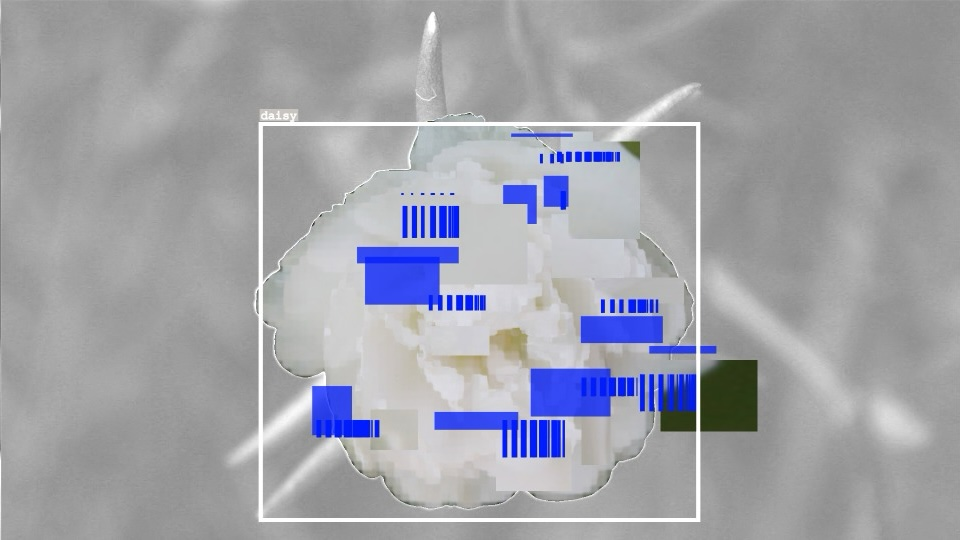
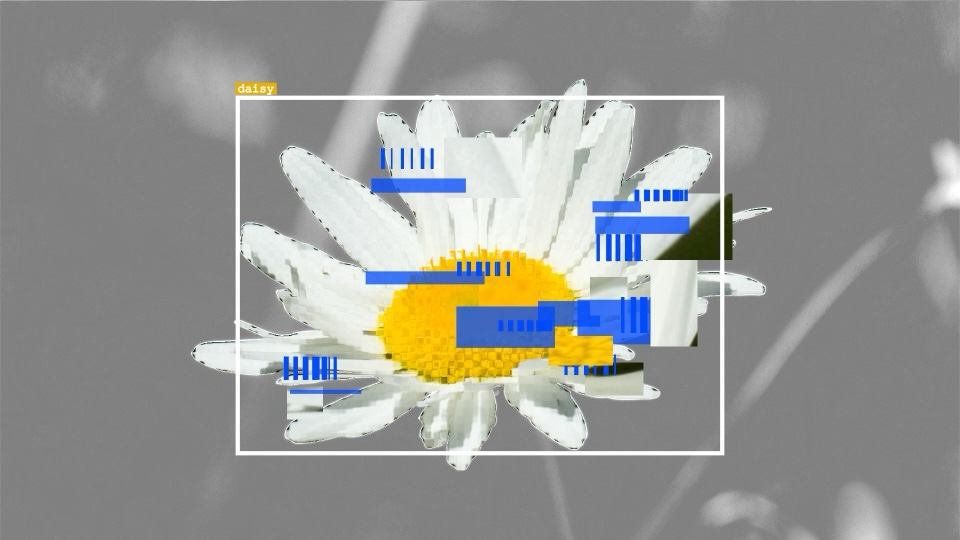
flower label based on input
tried to use mask data colour to determine the label text, but couldn't figure it out so text is based on input

diff --git a/sketch.js b/sketch.js
@@ -6,11 +6,14 @@ let maskCenter = null;
 let maskCenterSize = null; 
 let barcode = [];
 
+let isDaisy = false;
+let isRose = false; 
+
 let loopCounter = 0;
 
 // change these three lines as appropiate
-let sourceFile = "input_1.jpg";
-let maskFile = "mask_1.png";
+let sourceFile = "input_7.jpg";
+let maskFile = "mask_7.png";
 let outputFile = "output_5.png";
 
 function preload() {
@@ -31,6 +34,32 @@ function setup () {
 
   maskCenterSearcher(20);
   maskSizeFinder(20);
+
+  switch(sourceFile){
+    case "input_1.jpg":
+    case "input_2.jpg":
+    case "input_3.jpg":
+    case "input_4.jpg":
+    case "input_5.jpg":
+    case "input_new1.jpg":
+    case "input_new2.jpg":
+    case "input_new3.jpg":
+      isRose = true;
+      isDaisy = false;
+      break;
+
+    case "input_6.jpg":
+    case "input_7.jpg":
+    case "input_8.jpg":
+    case "input_9.jpg":
+    case "input_10.jpg":
+    case "input_new4.jpg":
+    case "input_new5.jpg":
+    case "input_new6.jpg":
+      isRose = false;
+      isDaisy = true;
+      break;
+  }
 }
 
 let X_STOP = 1920;
@@ -159,32 +188,13 @@ function draw () {
       let pixData = sourceImg.get(x1, y1);
       let maskData = maskImg.get(x1, y1);
 
-      // copy image regions 
-      let sourceWidth = random(25, 50); // copy source width
-      let sourceHeight = random(25, 50); // copy source height
-      let destWidth = random(50, 200); // copy destination width 
-      let destHeight = random(50, 200); // copy destination height
-      noStroke();
-
-
       if(maskData[1] > 128) {
-        imageMode(CORNERS);
-
-        fill(pixData); // image pixels
-        copy(sourceImg, x1, y1, sourceWidth, sourceHeight, x2, y2, destWidth, destHeight); // copy source region to new destination with new size 
-
-        colorMode(HSB, 360, 100, 100, 100);
-        let hueValue = hue(maskCenterPixel); // hue of mask centre pixel
-        let mapHue = map(hueValue, 0, 360, 0, 120); // 
-        let oppositeHue = 300 - mapHue; // find complementary hue
-        let oppositeOpaque = color(oppositeHue, 100, 100, 100); // complementary colour
-        let oppositeTransparent = color(oppositeHue, 100, 100, 75); // complementary colour
-
-      //   // random solid colour rectangle
-        fill(oppositeTransparent);
-        rectTint(x1, y1);
-        fill(oppositeOpaque);
-        barcodes(x1, y1);
+        // random image regions copies
+        maskGlitch(x1, y1, x2, y2, pixData);
+        // opposite tint rectangle at random x and y coordinates
+        rectTint(x1, y1, maskCenterPixel);
+        // opposite colour barcodes at random x and y coordinates
+        barcodes(x1, y1, maskCenterPixel);
       }
     }
     renderCounter = renderCounter + 1;
@@ -192,30 +202,43 @@ function draw () {
  
   // mask scanner focus rectangle
   if (maskCenter !== null) {
-    let flowerType = 'daisy'
-    // focus rectangle
+
+    // identify flower type
+    let flowerType = null;
+    if (isRose == true){
+      flowerType = "rose";
+    }
+    else {
+      flowerType = "daisy";
+    }
+
+    let boxLeft = maskCenter[0] - maskWidth/2; // flower bounding box left x coordinate
+    let boxTop = maskCenter[1] - maskHeight/2; // flower bounding box top y coordinate
+    let labelLeft = boxLeft - 4; // flower type label background left x coordinate
+    let labelTop = boxTop - 30; // flower type label background top y coordinate
+
+    // bounding box
     colorMode(RGB);
-    rectMode(CENTER);
-    strokeWeight(8); // scan line weight
-    stroke(255, 255, 255); // white scan lines
+    rectMode(CENTER); // bounding box from mask centre
+    strokeWeight(8); // bounding box line weight
+    stroke(255, 255, 255); // white bounding box
     noFill();
-    rect(maskCenter[0], maskCenter[1], maskWidth, maskHeight); // scan rectangle
+    rect(maskCenter[0], maskCenter[1], maskWidth, maskHeight); // bounding box rectangle
 
-    // label background
-    let labelWidth = textWidth(flowerType) + 5; // label backing width 
-    rectMode(CORNER);
+    // flower type label background
+    let labelWidth = textWidth(flowerType) + 10; // label backing width 
+    rectMode(CORNER); // label from top left corner
     noStroke();
-    fill(maskCenterPixel); // centre mask pixel colour
-    rect(maskCenter[0] - maskWidth/2 - 2, maskCenter[1] - maskHeight/2 - 30, labelWidth, 24); // label backing
+    fill(maskCenterPixel); // mask's centre pixel's colour
+    rect(labelLeft, labelTop, labelWidth, 24); // label backing
 
-    // label text
-    rectMode(CENTER);
+    // flower type label text
     noFill();
     stroke(255, 255, 255); // white text
-    strokeWeight(2); // text weight
-    textSize(24); // text size
+    strokeWeight(1.75); // font weight
+    textSize(24); // font size
     textFont('Courier New'); // courier new typeface
-    text(flowerType, maskCenter[0] - maskWidth/2, maskCenter[1] - maskHeight/2 - 10); // text and text location 
+    text(flowerType, boxLeft, boxTop - 12); // flower type label located at the top left of the flower bounding boz
   }
   renderCounter = renderCounter + 1;
 
@@ -238,21 +261,54 @@ function keyTyped() {
   }
 }
 
-function rectTint(x1, y1){
+// random image regions copies
+function maskGlitch(x1, y1, x2, y2, pixData){
+  // copy image regions 
+  let sourceWidth = random(25, 50); // copy source width
+  let sourceHeight = random(25, 50); // copy source height
+  let destWidth = random(50, 200); // copy destination width 
+  let destHeight = random(50, 200); // copy destination height
+
+  imageMode(CORNERS);
+  noStroke();
+  fill(pixData);
+  copy(sourceImg, x1, y1, sourceWidth, sourceHeight, x2, y2, destWidth, destHeight); // copy source region to new destination with new size 
+}
+
+// opposite tint rectangle at random x and y coordinates
+function rectTint(x1, y1, maskCenterPixel){
   let tintX = random (-50, 50);
   let tintY = random (-100, 100);
+  colorMode(HSB, 360, 100, 100, 100);
+  let hueValue = hue(maskCenterPixel); // mask's centre pixel's hue
+  let mapHue = map(hueValue, 0, 360, 0, 120); // map mask's centre pixel's hue
+  let oppositeHue = 300 - mapHue; // find opposite hue
+  let oppositeTint = color(oppositeHue, 100, 100, 75); // opposite colour tint
+
+  rectMode(CENTER);
+  noStroke();
+  fill(oppositeTint);
+
   push();
   translate(tintX, tintY);
-  rectMode(CENTER);
   let tintWidth = random(50, 250);
   let tintHeight = random(5, 100);
   rect(x1, y1, tintWidth, tintHeight);
   pop();
 }
 
-function barcodes(x1, y1){
+// opposite colour barcodes at random x and y coordinates
+function barcodes(x1, y1, maskCenterPixel){
   let barcodeX = random (-60, 30);
   let barcodeY = random (-20, 10);
+  colorMode(HSB, 360, 100, 100, 100);
+  let hueValue = hue(maskCenterPixel); // mask's centre pixel's hue
+  let mapHue = map(hueValue, 0, 360, 0, 120); // map mask's centre pixel's hue
+  let oppositeHue = 300 - mapHue; // find opposite hue
+  let oppositeColour = color(oppositeHue, 100, 100, 100); // opposite colour tint
+  noStroke();
+  fill(oppositeColour);
+
   push();
   let barcodeSize = random(75, 125);
   let gaps = random(18, 23);
@@ -268,39 +324,3 @@ function barcodes(x1, y1){
   }
   pop();
 }
-
-function flowerLabel(){
-
-      // let x1 = random(0, width);
-    // let y1 = random(0, height);
-    // let maskData = maskImg.get(x1, y1);
-    // if (maskData[1] > 218 && maskData[1] < 236){
-    //   let flowerType = 'rose'
-    // }
-    // else if(maskData[1] > 236){
-    //   let flowerType = 'daisy'
-    // }
-  colorMode(RGB);
-    rectMode(CENTER);
-    strokeWeight(5); // scan line weight
-    stroke(255, 255, 255); // white scan lines
-    noFill();
-    rect(maskCenter[0], maskCenter[1], maskWidth, maskHeight); // scan rectangle
- 
-    // label background
-    let labelWidth = textWidth('rose') + 2; // label backing width 
-    rectMode(CORNER);
-    noStroke();
-    fill(maskCenterPixel); // centre mask pixel colour
-    rect(maskCenter[0] - maskWidth/2 - 2, maskCenter[1] - maskHeight/2 - 30, labelWidth, 24); // label backing
-
-    // label text
-    rectMode(CENTER);
-    noFill();
-    stroke(255, 255, 255); // white text
-    strokeWeight(2); // text weight
-    textSize(24); // text size
-    textFont('Courier New'); // courier new typeface
-    text('rose', maskCenter[0] - maskWidth/2, maskCenter[1] - maskHeight/2 - 10); // text and text location 
-}
-
